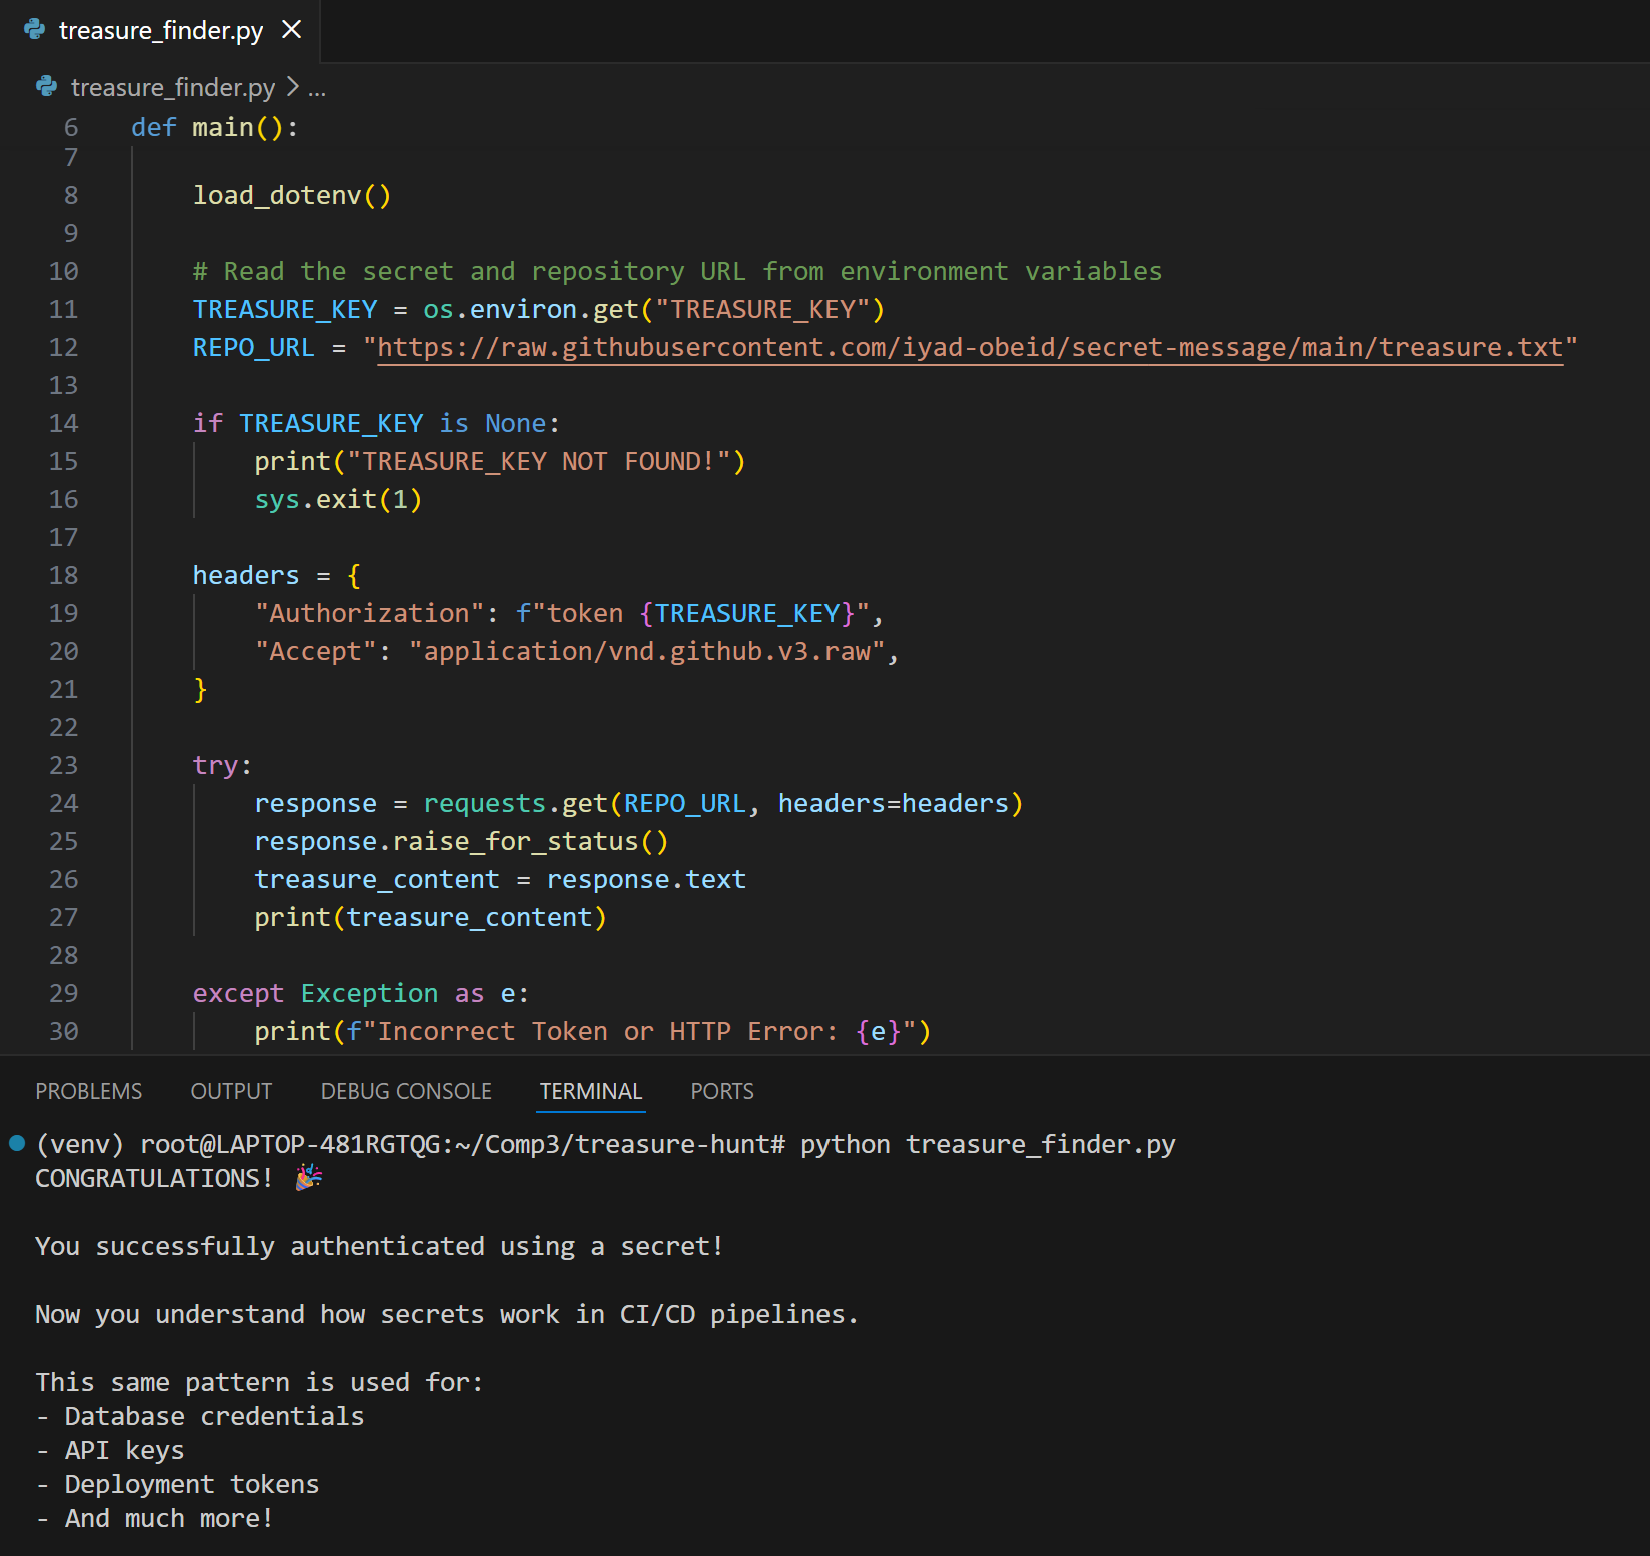
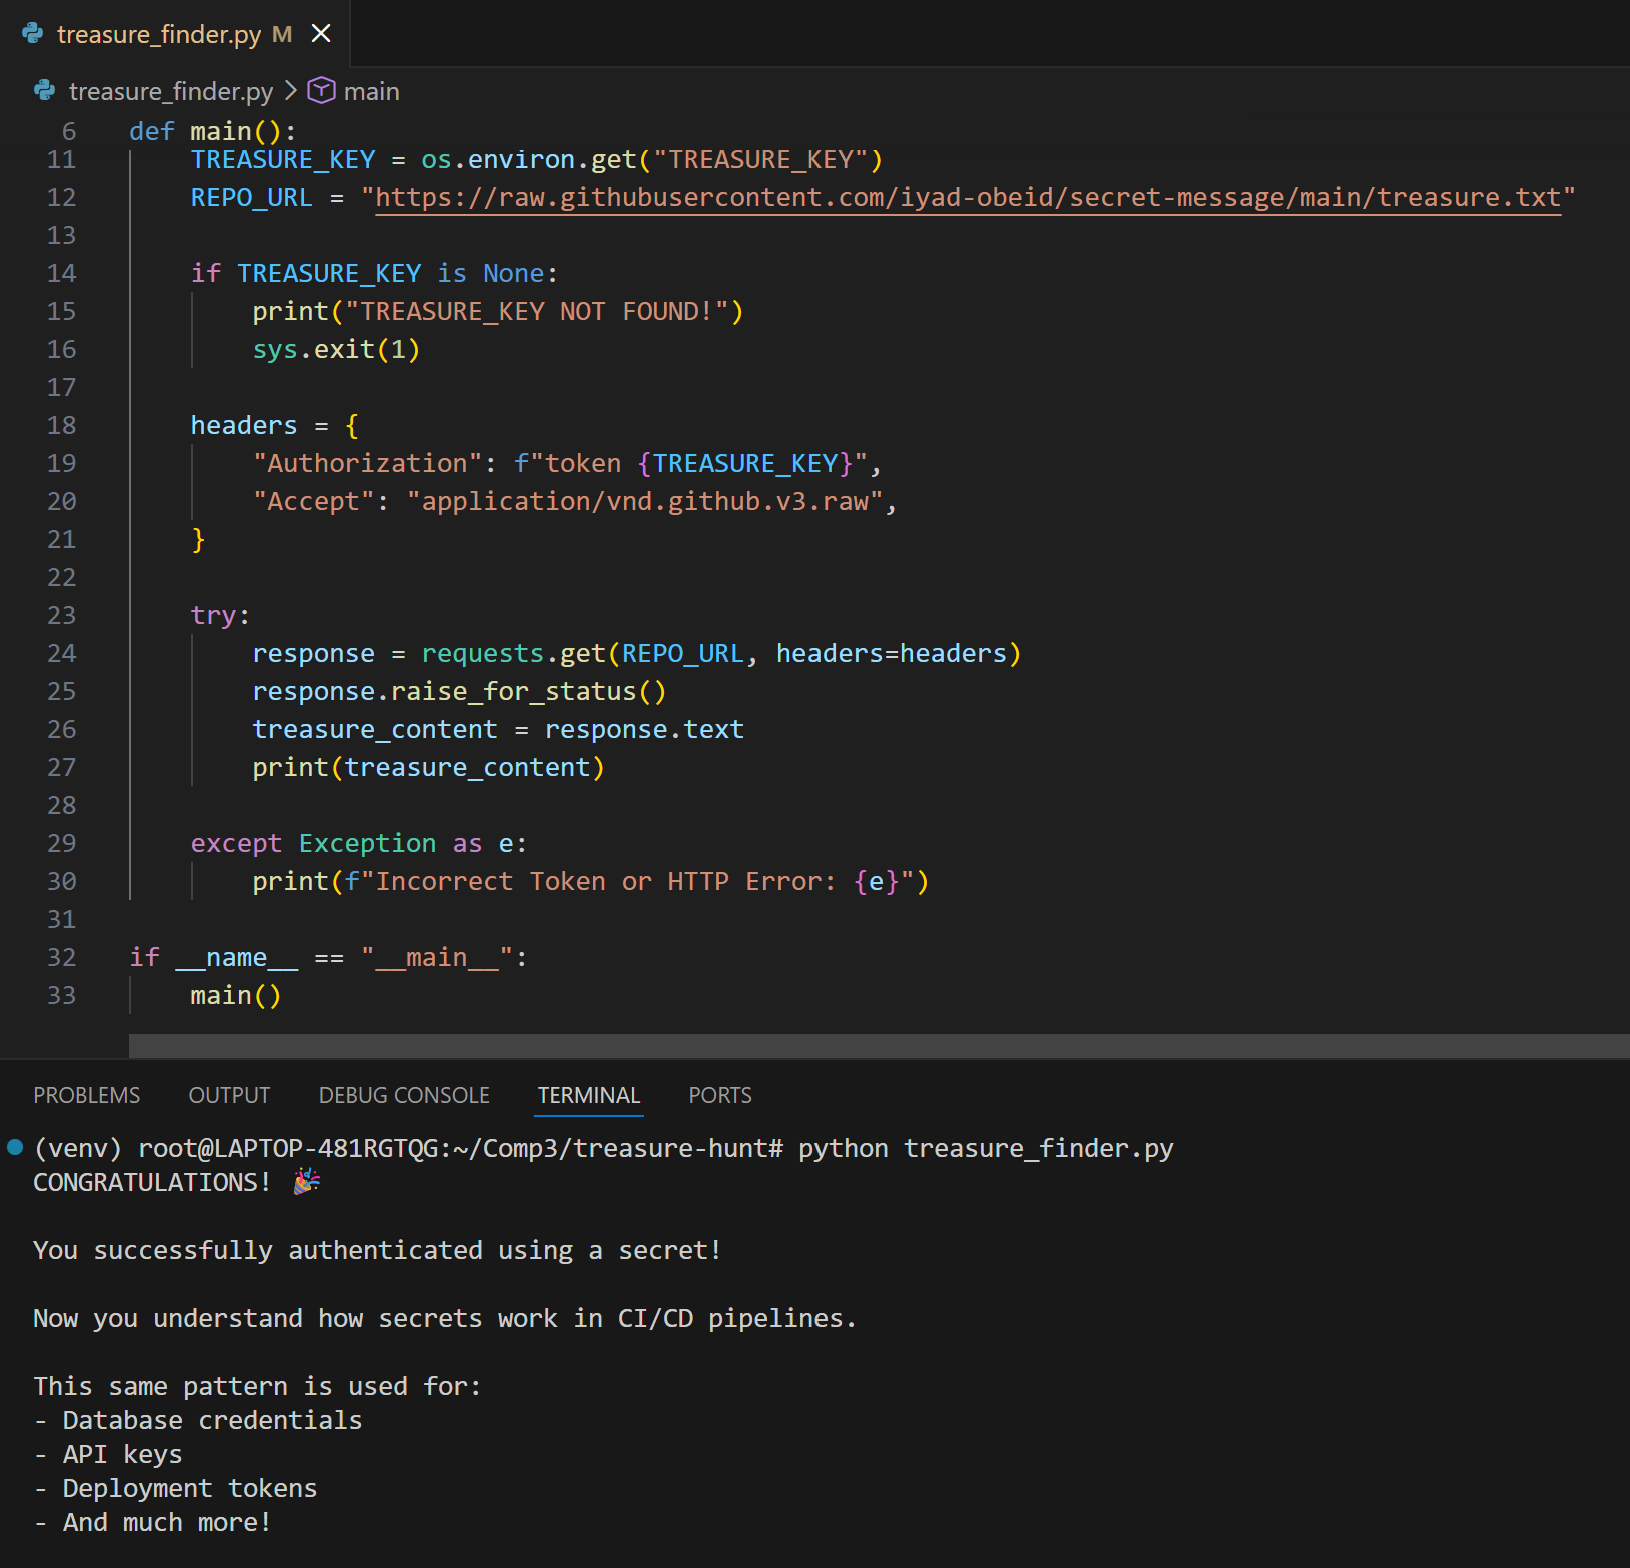
add images

Changed region(s): [[0.0, 0.0925, 1.0, 0.9871], [0.0, 0.0, 0.9509, 0.3393], [0.5215, 0.5553, 0.5521, 0.5861]]

diff --git a/treasure_finder.py b/treasure_finder.py
@@ -7,7 +7,7 @@ def main():
 
     load_dotenv()
     
-    # Read the secret and repository URL from environment variables
+    # Read the secret from the environment variable
     TREASURE_KEY = os.environ.get("TREASURE_KEY")
     REPO_URL = "https://raw.githubusercontent.com/iyad-obeid/secret-message/main/treasure.txt"
 
